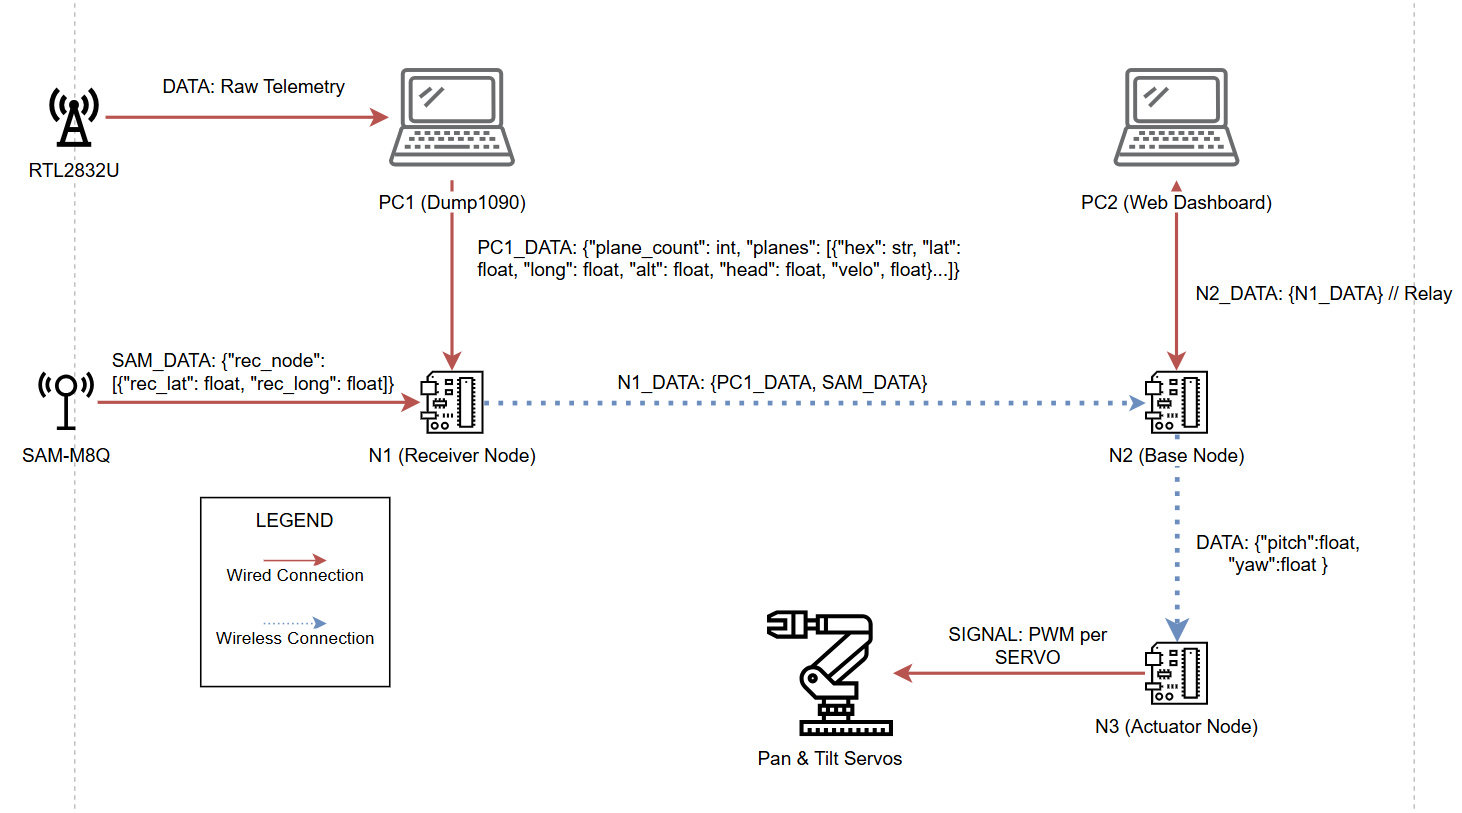
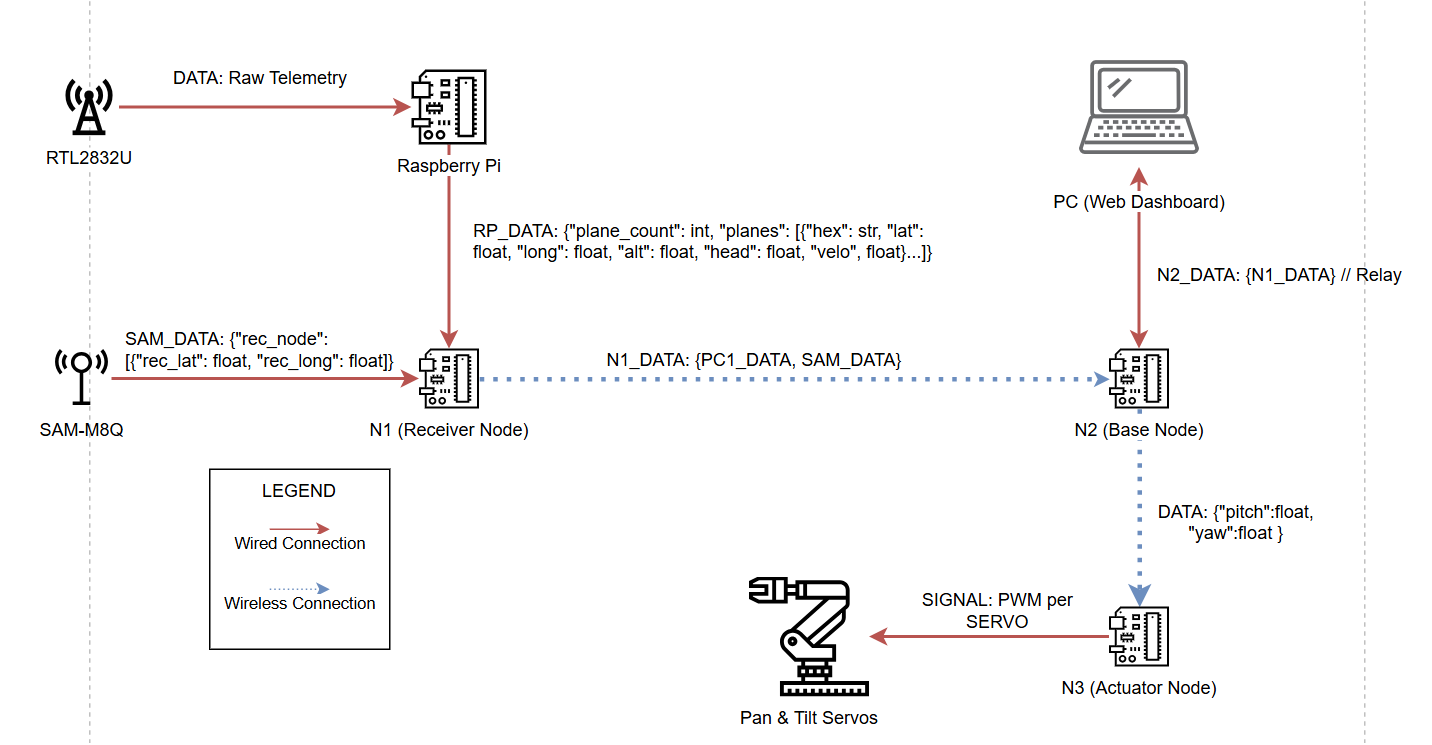
Started wireless communication

diff --git a/milestone/wiki.md b/milestone/wiki.md
@@ -1,22 +1,33 @@
 # Project Title
+
 Tracking Aircraft for a Sustainable Future for Brisbane
+
 # Team Member List and Roles
+
 Sidney Neil, Fiachra Richards, Xander Akison
+
 # Project Overview/Scenario
 
 ## Project Description
-### The Problem 
+
+### The Problem
+
 Brisbane is among the fastest growing populations in the world with a current population of approximately 2.5 million people and counting.
 2032 Olympic Games
 Additionally with the upcoming 2032 Olympic games the city's population is going to grow exponentially.
+
 ### Why is this important?
+
 More people means more housing, more planes overhead and more noise. Accompanying this, the more people consequently means the more urban areas are stretched into industrial areas or outer city areas. Creating a domino effect of the following:
- - Longer Travel
- - Busier Roads
- - Houses in high noise areas
+
+- Longer Travel
+- Busier Roads
+- Houses in high noise areas
 
 Exposing people to health risks of more gas emittions from both cars and factories, Reduced Sleep and more.
+
 #### We Believe Brisbane _deserves better_.
+
 While we know we can’t in this project stop the development of houses and urbanization of industrial areas. We believe every single bit of info helps which is why we have produced the solution which can help Brisbanians create informed decisions on their housing like never before.
 
 ## Deliverables & Key Performance Indicators
@@ -24,14 +35,60 @@ While we know we can’t in this project stop the development of houses and urba
 ## System Overview
 
 ### Block Diagram
-Test A
+
+![](block_diagram.png)
 
 ## System/Sensor Integration
 
 ## Wireless Network Communications
 
+### Raspberry Pi
+
+The raspberry pi is responsible for receiving the information from the RTL2832U transponder using Dump1090, once processed, the relevant plane information will be sent via serial in a json format to the zephyr based receiver node. The json format will be the following.
+
+    {
+    "plane_count": int,
+    "planes": [
+        {
+        "hex": str,
+        "lat": float,
+        "long": float,
+        "head": float,
+        "velo": float
+        },
+        ...
+    ]}
+
+### Receiver Node (xiao seed board)
+
+The receiver node is responsible for the following:
+
+- Reading GPS data from the SAM-M8Q (via UART pins)
+- Receiving plane data from the raspberry pi (via USB-C) // Also power
+- Sending new json packet with both sets of data
+
+The SAM-M8Q continuously sends GPS data over UART in the form
+
+    $GNGGA,UTC,LATITUDE,N,LONGITUDE,E,QUALITY,SATELLITE_COUNT,HDOP,ALTITUDE,M,CHECKSUM
+
+a polling function will read the current value and package the data with the plane data from the raspberry pi.
+
+The packaged packet will be transmitted via BLE to the base node, this will use bluetooth nus to communicate with the other zephyr based xiao board. The packet will be formatted in json with the following format.
+
+    { "plane_count": int,
+    "planes": [
+    {"hex": str, "lat": float,
+    "long": float, "head": float,
+    "velo": float},
+    ...
+    ], "position": [
+    {"lat": float, "long",
+    float, "alt": float }]}
+
+![](message_protocol_diagram.png)
+
 ## Algorithms
-HELLO
+
 ## DIKW Pyramid Abstraction
 
 ## Project Software/Hardware management